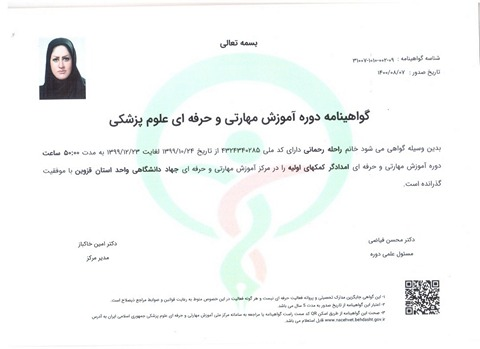
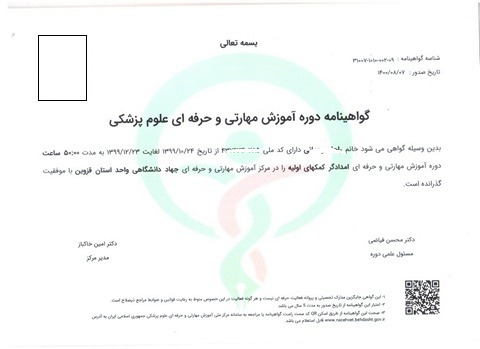
remove certificates big image
remove infos in certificates images

Changed region(s): [[0.0625, 0.086, 0.1875, 0.2865], [0.6562, 0.4298, 0.7188, 0.4585], [0.4688, 0.4298, 0.5312, 0.4585]]

diff --git a/resources/themes/velocity/views/products/view.blade.php b/resources/themes/velocity/views/products/view.blade.php
@@ -199,7 +199,7 @@ $course_extra = collect($customAttributeValues)->filter( function ($value,$key){
                                     @if ($product->getTypeInstance()->showQuantityBox() && false)
                                         <div>
                                             <quantity-changer
-                                                    quantity-text="{{ __('shop::app.products.quantity') }}"></quantity-changer>
+                                                quantity-text="{{ __('shop::app.products.quantity') }}"></quantity-changer>
                                         </div>
                                     @else
                                         <input type="hidden" name="quantity" value="1">
@@ -308,21 +308,21 @@ $course_extra = collect($customAttributeValues)->filter( function ($value,$key){
                         </h5>
                         <div class="w-100 p-3">
                             @if ($product->product->categories->pluck('id')->contains(16))
-                                <a href="{{asset('images/certs/icdl_big.jpg')}}" target="_blank">
+                                <div>
                                     <img src="{{asset('images/certs/icdl.jpg')}}" class="w-100">
-                                </a>
+                                </div>
                             @elseif ($product->product->categories->pluck('id')->contains(11))
-                                <a href="{{asset('images/certs/doc_big.jpg')}}" target="_blank">
+                                <div>
                                     <img src="{{asset('images/certs/doc.jpg')}}" class="w-100">
-                                </a>
+                                </div>
                             @elseif ($product->product->categories->pluck('id')->contains(6))
-                                <a href="{{asset('images/certs/zaban_big.jpg')}}" target="_blank">
+                                <div>
                                     <img src="{{asset('images/certs/zaban.jpg')}}" class="w-100">
-                                </a>
+                                </div>
                             @else
-                                <a href="{{asset('images/certs/all_big.jpg')}}" target="_blank">
+                                <div>
                                     <img src="{{asset('images/certs/all.jpg')}}" class="w-100">
-                                </a>
+                                </div>
                             @endif
 
                         </div>
@@ -345,11 +345,11 @@ $course_extra = collect($customAttributeValues)->filter( function ($value,$key){
 
     <script type="text/x-template" id="product-view-template">
         <form
-                method="POST"
-                id="product-form"
-                @click="onSubmit($event)"
-                data-vv-scope="form-buy"
-                action="{{ route('cart.add', $product->product_id) }}">
+            method="POST"
+            id="product-form"
+            @click="onSubmit($event)"
+            data-vv-scope="form-buy"
+            action="{{ route('cart.add', $product->product_id) }}">
 
             <input type="hidden" name="is_buy_now" v-model="is_buy_now">
 
